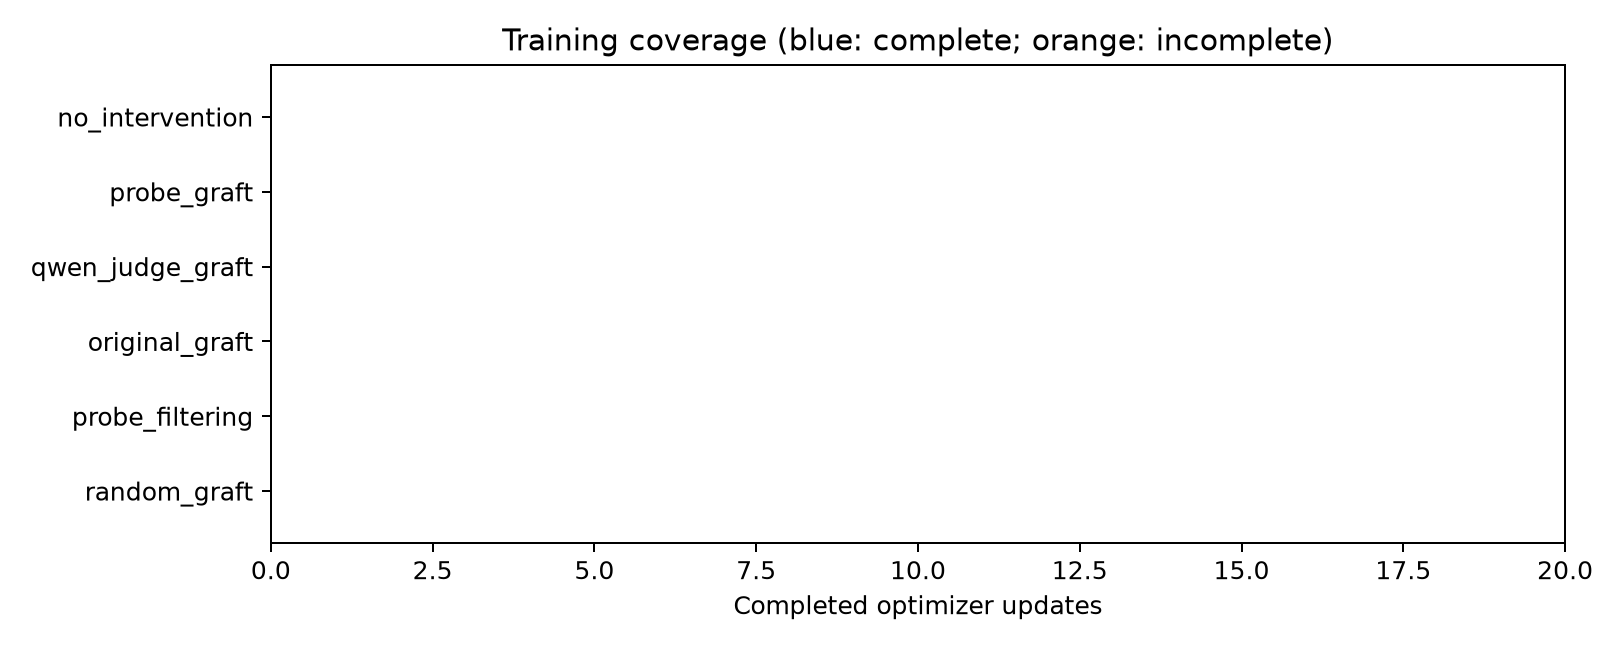
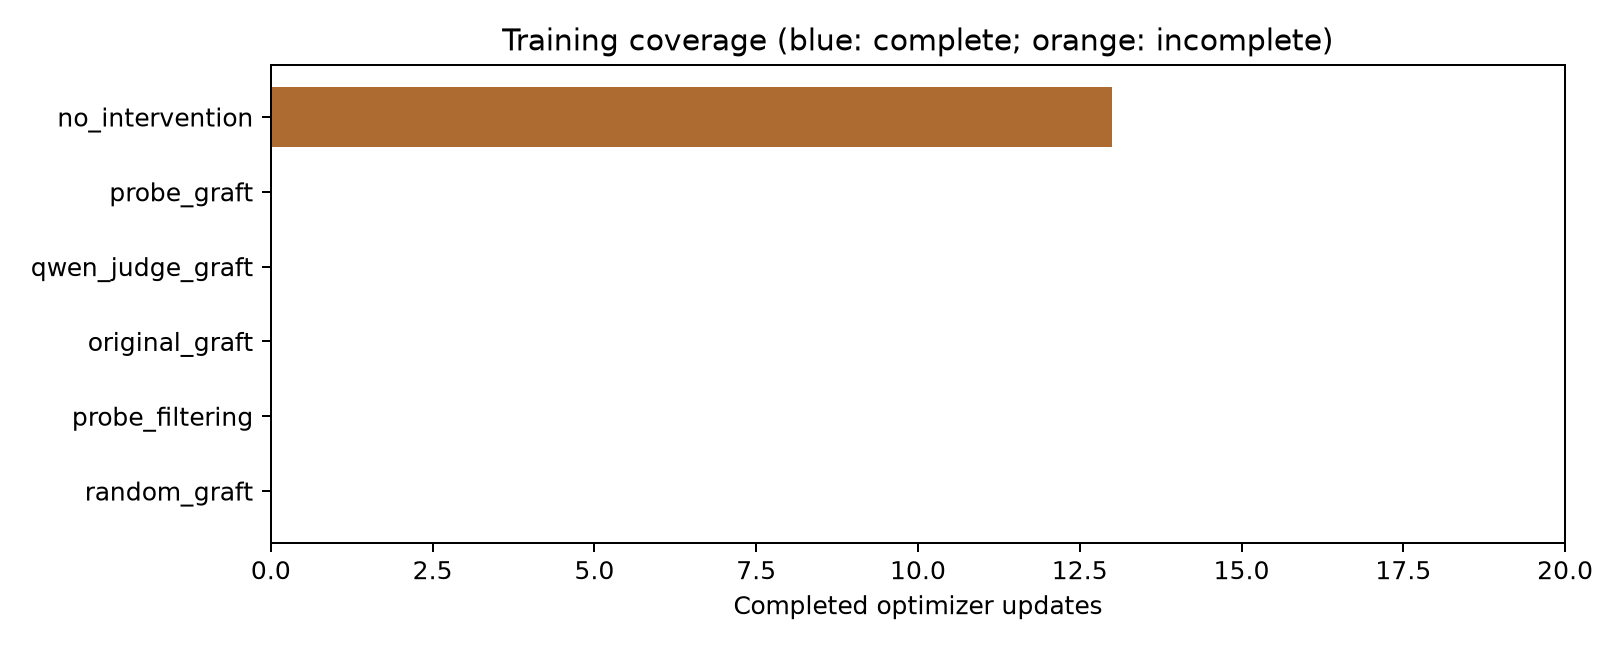
Refresh interim evidence with logged training progress

Changed region(s): [[0.1543, 0.1235, 0.7099, 0.2469]]

diff --git a/reports/qwen_probe/paper.md b/reports/qwen_probe/paper.md
@@ -28,7 +28,7 @@ Evaluate eight fixed locally runnable heldout Docker tasks through pinned Harbor
 
 ## Results
 
-Training coverage: no_intervention: 0 updates, complete=False; probe_graft: 0 updates, complete=False; qwen_judge_graft: 0 updates, complete=False; original_graft: 0 updates, complete=False; probe_filtering: 0 updates, complete=False; random_graft: 0 updates, complete=False; smoke: 1 updates, complete=True.
+Training coverage: no_intervention: 13 updates, complete=False; probe_graft: 0 updates, complete=False; qwen_judge_graft: 0 updates, complete=False; original_graft: 0 updates, complete=False; probe_filtering: 0 updates, complete=False; random_graft: 0 updates, complete=False; smoke: 1 updates, complete=True.
 
 Downloaded probe: 194/194 heldout trajectories across 99 tasks; 95 positive and 99 negative labels. auroc 0.497 (95% interval 0.424 to 0.562); precision 0.500 (95% interval 0.143 to 0.857); recall 0.042 (95% interval 0.010 to 0.084); fpr 0.040 (95% interval 0.010 to 0.081). Frozen cutoff 0.00096981943; calibration false positives 10/203.
 

diff --git a/reports/qwen_probe/no_intervention.md b/reports/qwen_probe/no_intervention.md
@@ -2,7 +2,7 @@
 
 Establish the effect of learning the matched clean/hack mixture with both adapters and the same split-moment optimizer, without routing. This is the primary comparator, not the untouched base model.
 
-Updates: 0. Complete planned training: False.
+Updates: 13. Complete planned training: False.
 
 Method and hyperparameter rationale: [preregistered protocol](../../docs/protocol.md). Exact optimizer arguments are in the per-arm configuration JSON when the run has started. The smoke checkpoint is an engineering check and excluded from study comparisons.
 

diff --git a/reports/qwen_probe/summary.md b/reports/qwen_probe/summary.md
@@ -7,7 +7,7 @@ This report is generated from local manifests and frozen audits. See [protocol](
 
 | Experiment | Updates | Completed recipe | Status |
 |---|---:|---|---|
-| no_intervention | 0 | False | incomplete |
+| no_intervention | 13 | False | incomplete |
 | probe_graft | 0 | False | incomplete |
 | qwen_judge_graft | 0 | False | incomplete |
 | original_graft | 0 | False | incomplete |
